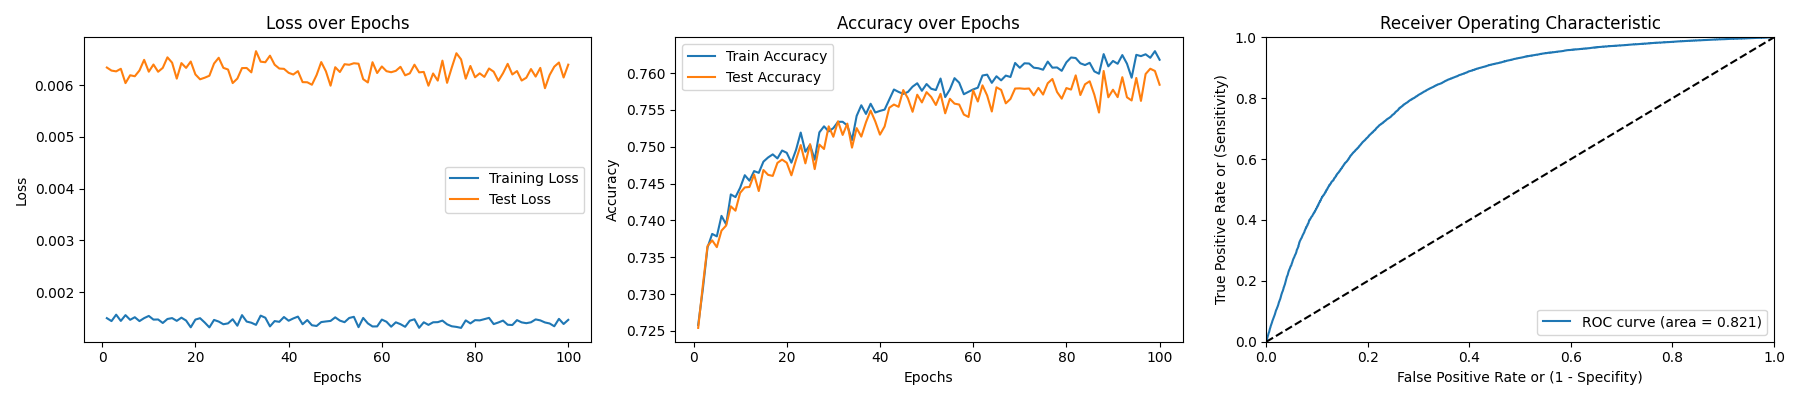
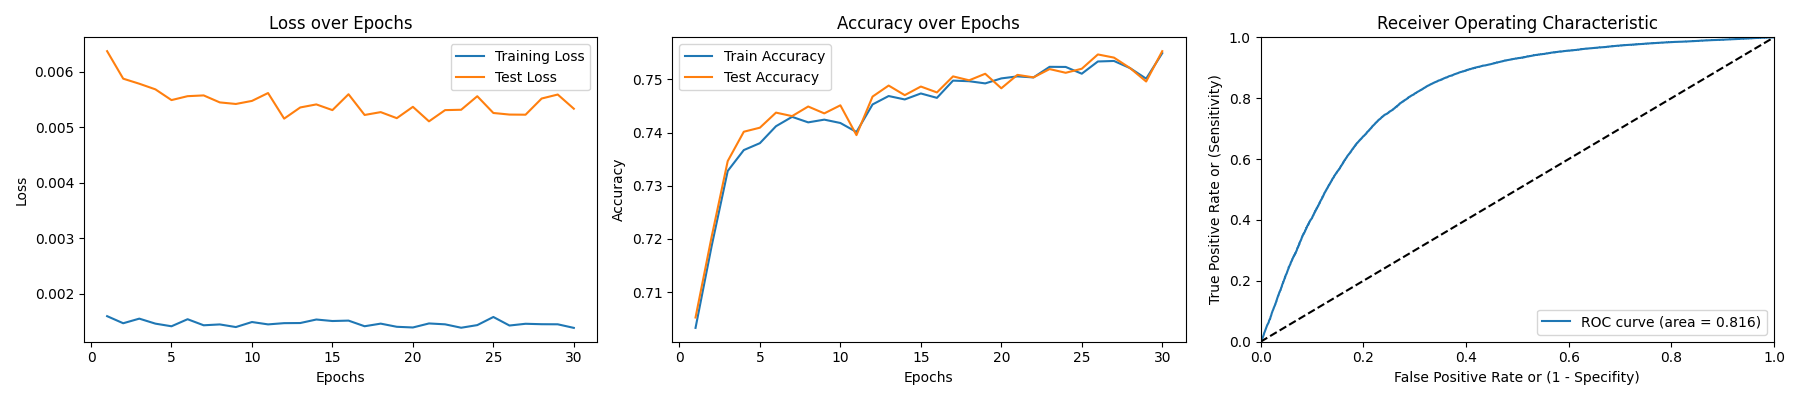
plotting normalized node features and testing if batchnorm is affecting final performance

diff --git a/analysis/graph_constructor.py b/analysis/graph_constructor.py
@@ -13,6 +13,7 @@ import torch_geometric
 
 import fastjet
 import awkward as ak
+import matplotlib.pyplot as plt
 
 from import_dataset import import_CMS2011AJets_dataset
 from utils import get_eec_ls_values, plot_jet_kinematics, reclusterJets, OneHotEncodeType, normalize_array
@@ -240,10 +241,28 @@ def _construct_particle_graphs_pyg(
             # normalizing new features
             X[i] = (X[i] - np.average(X[i], axis=0)) / np.std(X[i], axis=0)
 
+        
+
         # One-hot encode the labels
         y = OneHotEncodeType(y)[:, :1]
 
         # plot_jet_kinematics(X, input_type='hadronic')
+        
+        # plotting
+        fig, axs = plt.subplots(1, 7, figsize=(20, 5))
+        
+        jet_list = [np.array([]) for _ in range(7)]
+        for i in range(7):
+            for j in range(len(X)):
+                jet_list[i] = np.append(jet_list[i], X[j][:, i])
+
+        for i in range(7):
+            axs[i].hist(jet_list[i], bins=100)
+            axs[i].set_title(f'Histogram of X[:, :, {i}]')
+
+        plt.tight_layout()
+        plt.savefig('scatter_plot.png')
+        exit()
 
     # Calculate EnergyEnergyCorrelation (EEC) features
     if additional_edge_attrs == 'eec_with_charges':

diff --git a/analysis/ml_analysis.py b/analysis/ml_analysis.py
@@ -28,7 +28,7 @@ class HyperGraphNet(torch.nn.Module):
 
         # Dropout layer (by default, only active during training -- i.e. disabled with mode.eval() )
         self.dropout = nn.Dropout(p=0.5)
-        
+                
     def forward(self, data):
         x, hyperedge_index = data.x, data.hyperedge_index
         
@@ -53,7 +53,7 @@ class HyperGraphNet(torch.nn.Module):
         return F.softmax(x, dim=1)
 
 class GAT(torch.nn.Module):
-    def __init__(self, n_input_features, hidden_dim, n_output_classes, dropout_rate=0.25):
+    def __init__(self, n_input_features, hidden_dim, n_output_classes, dropout_rate=0.1):
         super(GAT, self).__init__()
         self.head = 8
 
@@ -442,7 +442,7 @@ class MLAnalysis:
         plt.savefig("./metrics_plot/metrics_plot"+"_"+str(self.input_dim)+"_"+\
             str(self.hidden_dim)+"_"+str(self.model.__class__.__name__)+"_"+str(self.batch_size)+"_"+str(self.learning_rate)+".png")
 
-analysis = MLAnalysis(7, 4, 2, model="GAT", batch_size=512, learning_rate=0.0005, epochs=100)
+analysis = MLAnalysis(7, 4, 2, model="GAT", batch_size=512, learning_rate=0.0001, epochs=30)
 
 analysis.load_data()
 
